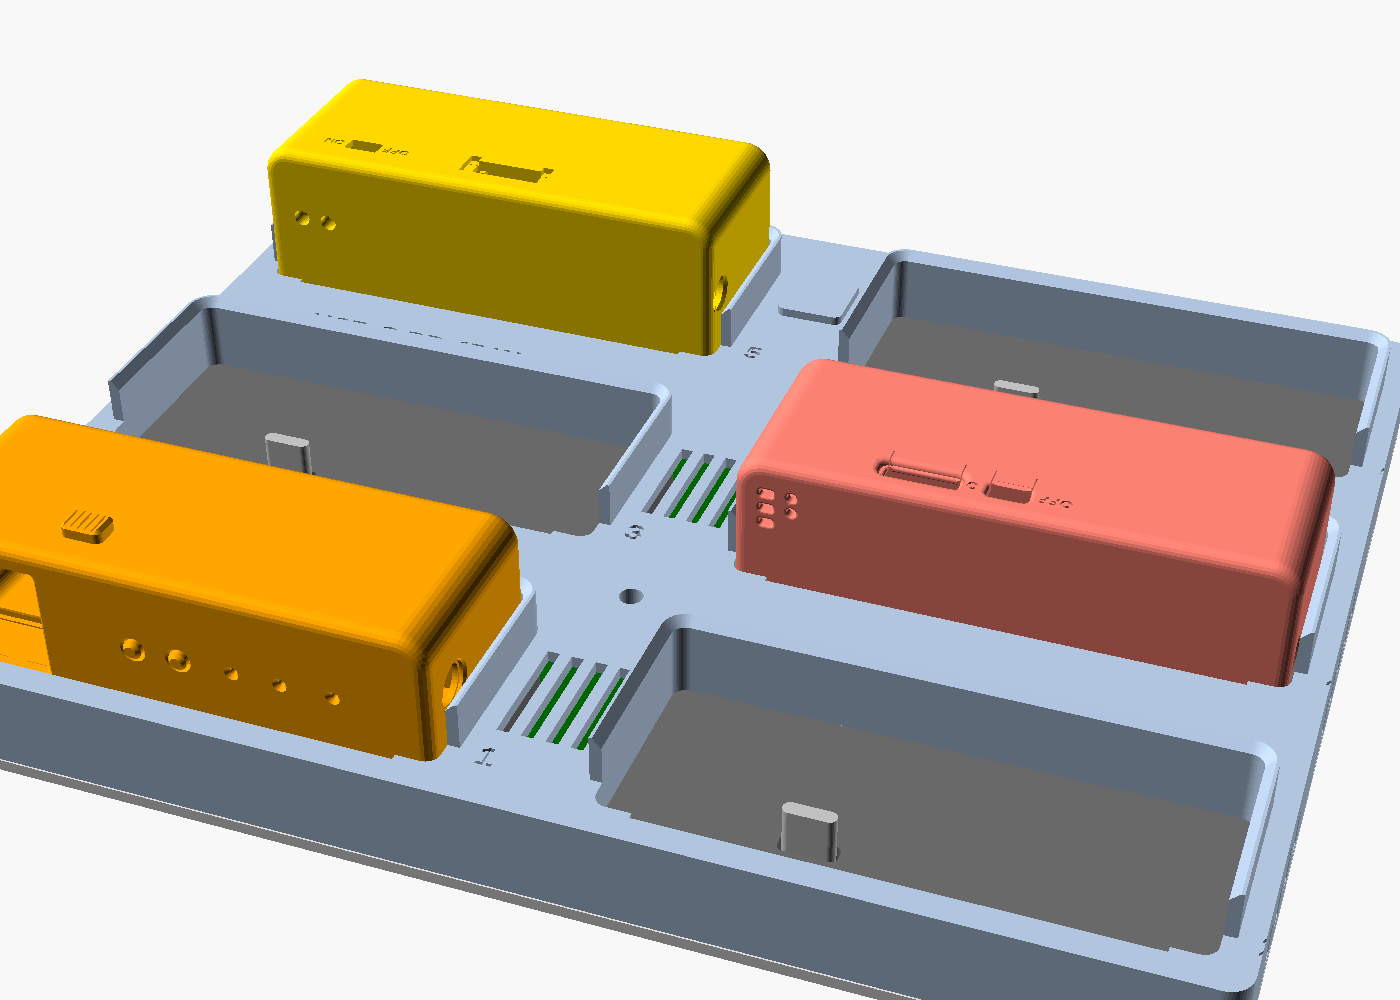
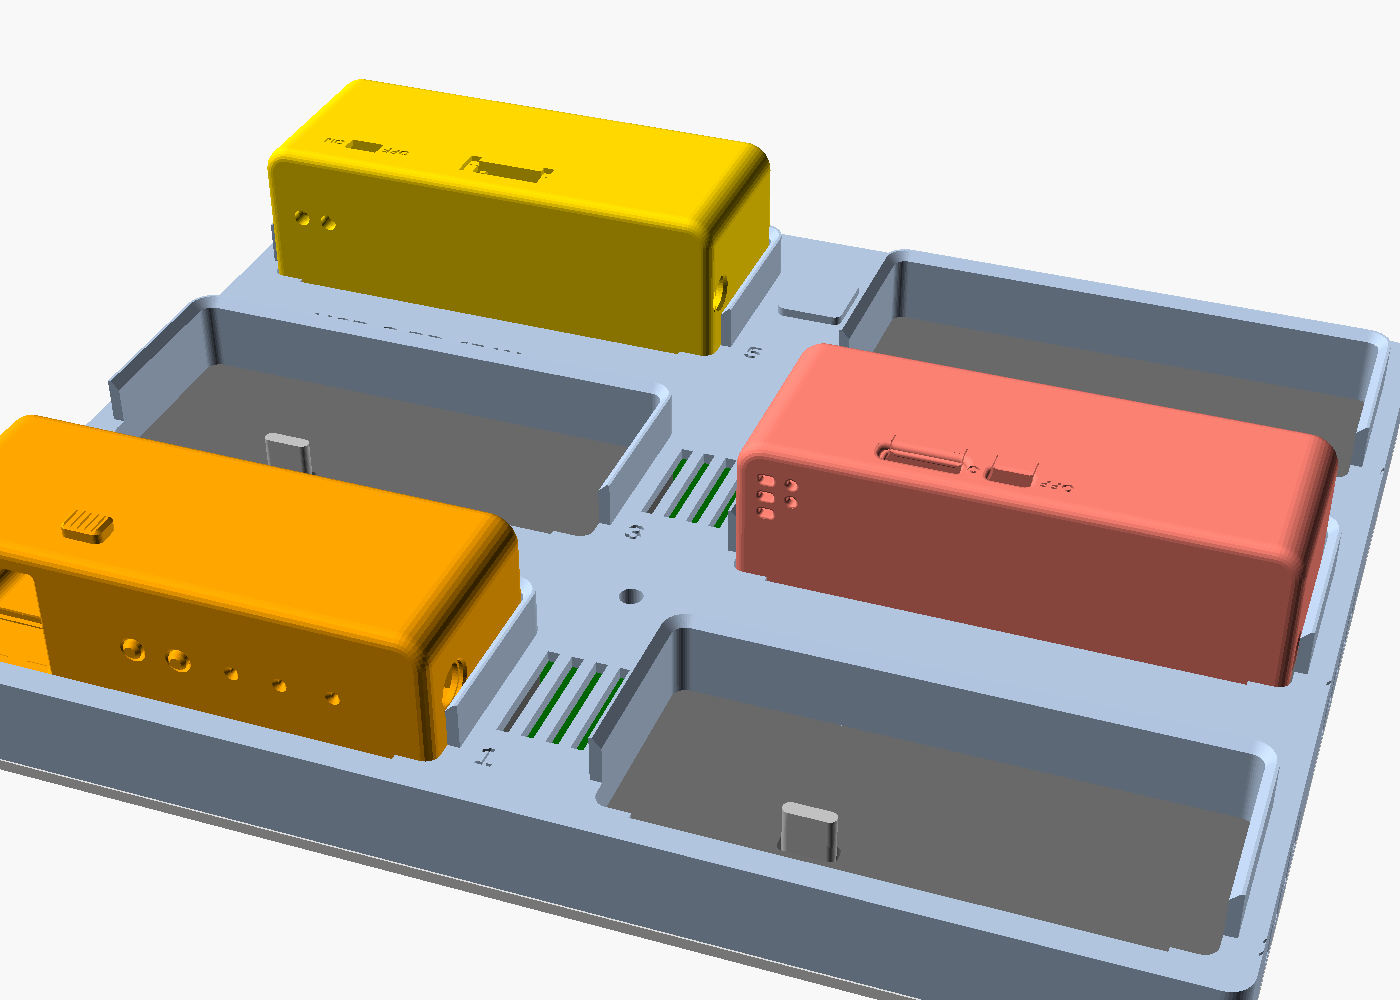
WIP(t115u): dock fit re-checked with the 30.5 mm single-board case (pockets unchanged)

Changed region(s): [[0.5221, 0.341, 0.9521, 0.589]]

diff --git a/charging_dock/scripts/geom.py b/charging_dock/scripts/geom.py
@@ -4,7 +4,7 @@ KiCad board frame: kx = X - PCB_X0, ky = PCB_Y1 - Y (Y down, origin = board top-
 # ---- radio envelope (see ../DOCK_INTERFACE.md) ----
 # 2026-11-24 unified envelope: every OpenALD radio (MI03, single-board, Feather) is 89.75 long x 34.83 thick with the
 # USB-C on its -X long side, centred 30.3 from the top outer end and 7.55 behind the front face, mouth 1.0 inside the
-# side face. Widths differ (MI03 / single-board 27.5, Feather 32.9) and do not matter: radios dock LYING ON THEIR
+# side face. Widths differ (MI03 27.5, single-board 30.5, Feather 32.9) and do not matter: radios dock LYING ON THEIR
 # USB-C SIDE, front face toward the user, top end to the left, so the pocket footprint is length x thickness.
 RL, RT = 89.75, 34.83            # radio length (dock X) x thickness (dock Y)
 EDGE_R = 2.0                     # radio edge radius = pocket footprint corner radius
@@ -12,7 +12,7 @@ USB_FROM_END = 30.3              # USB-C centre from the radio's top outer end (
 USB_FROM_FRONT = 7.55            # USB-C centreline behind the radio front face (dock Y)
 MOUTH_UP = 1.00                  # receptacle mouth inside the radio's USB-C side face (above the pocket floor)
 MOUTHS = {"mi03": 1.00, "single_board": 1.00, "feather": 1.00}
-WIDTHS = {"mi03": 27.5, "single_board": 27.5, "feather": 32.9}   # height above the pocket floor when docked
+WIDTHS = {"mi03": 27.5, "single_board": 30.5, "feather": 32.9}   # height above the pocket floor when docked
 # ---- layout ----
 COLS, ROWS = 2, 3
 GAP = 25.4                       # 1.0 in between radios (X and Y)
